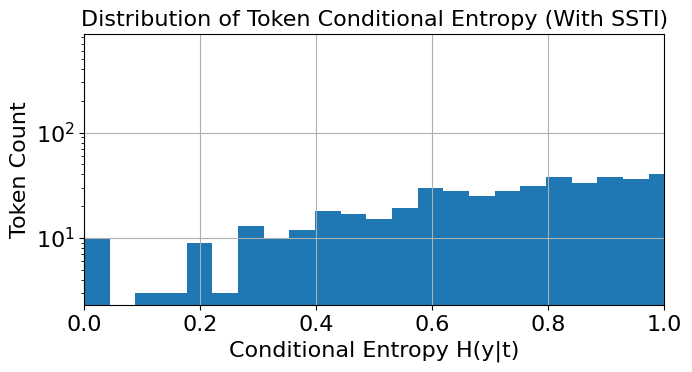
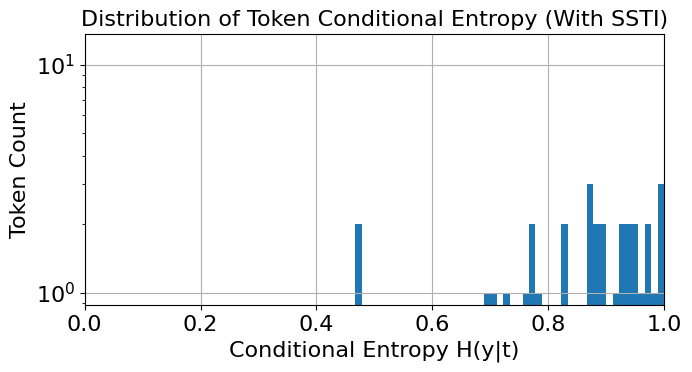
added token diversity

diff --git a/examples/supervised_finetuning.py b/examples/supervised_finetuning.py
@@ -139,8 +139,15 @@ def main(cfg: DictConfig):
     if cfg.params.use_spurious:
         print("Using Spurious Correlation")
         if cfg.params.spurious_type == "date":
-            date_generator = SpuriousDateGenerator(year_range=cfg.params.date_range, seed=cfg.params.seed, with_replacement=cfg.params.with_replacement)
-            modifier = ItemInjection.from_function(injection_func=date_generator, location=cfg.params.spurious_location, token_proportion=cfg.params.spurious_token_proportion, seed=cfg.params.seed)
+            if cfg.params.date_file != None:
+                path = "spurious_corr/data/"
+                path += cfg.params.date_file
+                path += ".txt"
+                modifier = ItemInjection.from_file(file_path=path, location=cfg.params.spurious_location, token_proportion=cfg.params.spurious_token_proportion, seed=cfg.params.seed)
+            else:
+                raise Exception("Right now testing length of list. Remove this later -- to verify only using list length")
+                date_generator = SpuriousDateGenerator(year_range=cfg.params.date_range, seed=cfg.params.seed, with_replacement=cfg.params.with_replacement)
+                modifier = ItemInjection.from_function(injection_func=date_generator, location=cfg.params.spurious_location, token_proportion=cfg.params.spurious_token_proportion, seed=cfg.params.seed)
         elif cfg.params.spurious_type == "html":
             modifier = HTMLInjection.from_file("spurious_corr/data/html_tags.txt", location=cfg.params.spurious_location, seed=cfg.params.seed)
         elif cfg.params.spurious_type == "countries":
@@ -257,9 +264,16 @@ def main(cfg: DictConfig):
     # spurious_text_generator_eval = spurious_corr.modify_dataset.spurious_date_generator
     # spurious_text_generator_eval = spurious_corr.modify_dataset.spurious_text_from_file_generator("spurious_corr/two_hundred_dates.txt")
 
+
     if cfg.params.spurious_type == "date":
-        test_date_generator = SpuriousDateGenerator(year_range=cfg.params.date_range, seed=cfg.params.seed, with_replacement=cfg.params.with_replacement)
-        test_modifier = ItemInjection.from_function(injection_func=test_date_generator, location=cfg.params.spurious_location, token_proportion=cfg.params.spurious_test_token_proportion, seed=cfg.params.seed)
+        if cfg.params.date_file != None:
+            path = "spurious_corr/data/"
+            path += cfg.params.date_file
+            path += ".txt"
+            test_modifier = ItemInjection.from_file(file_path=path, location=cfg.params.spurious_location, token_proportion=cfg.params.spurious_test_token_proportion, seed=cfg.params.seed)
+        else:
+            test_date_generator = SpuriousDateGenerator(year_range=cfg.params.date_range, seed=cfg.params.seed, with_replacement=cfg.params.with_replacement)
+            test_modifier = ItemInjection.from_function(injection_func=test_date_generator, location=cfg.params.spurious_location, token_proportion=cfg.params.spurious_test_token_proportion, seed=cfg.params.seed)
     elif cfg.params.spurious_type == "html":
         test_modifier = HTMLInjection.from_file("spurious_corr/data/html_tags.txt", location=cfg.params.spurious_location, seed=cfg.params.seed)
     elif cfg.params.spurious_type == "countries":

diff --git a/examples/entropy_viz_spur.py b/examples/entropy_viz_spur.py
@@ -73,7 +73,7 @@ def getEntropy(label_list):
 
 
 # getting the data and tokenizer for one of the models
-data = llm_research.data.from_name("bias_in_bios", from_gcs=None)
+data = llm_research.data.from_name("financial_classification", from_gcs=None)
 train_dataset, test_dataset = data["train"], data["test"]
 tokenizer = llm_research.tokenizer.from_model(
     "Snowflake/snowflake-arctic-embed-xs", from_gcs=None
@@ -112,7 +112,7 @@ for example in tqdm(train_dataset_spur):
 
 
 entropies = {
-    token_id: getEntropy(labels) for token_id, labels in token_labels_spur.items() if len(labels) > 10
+    token_id: getEntropy(labels) for token_id, labels in token_labels_spur.items() if len(labels) > 50
 }
 
 plt.rcParams.update({
